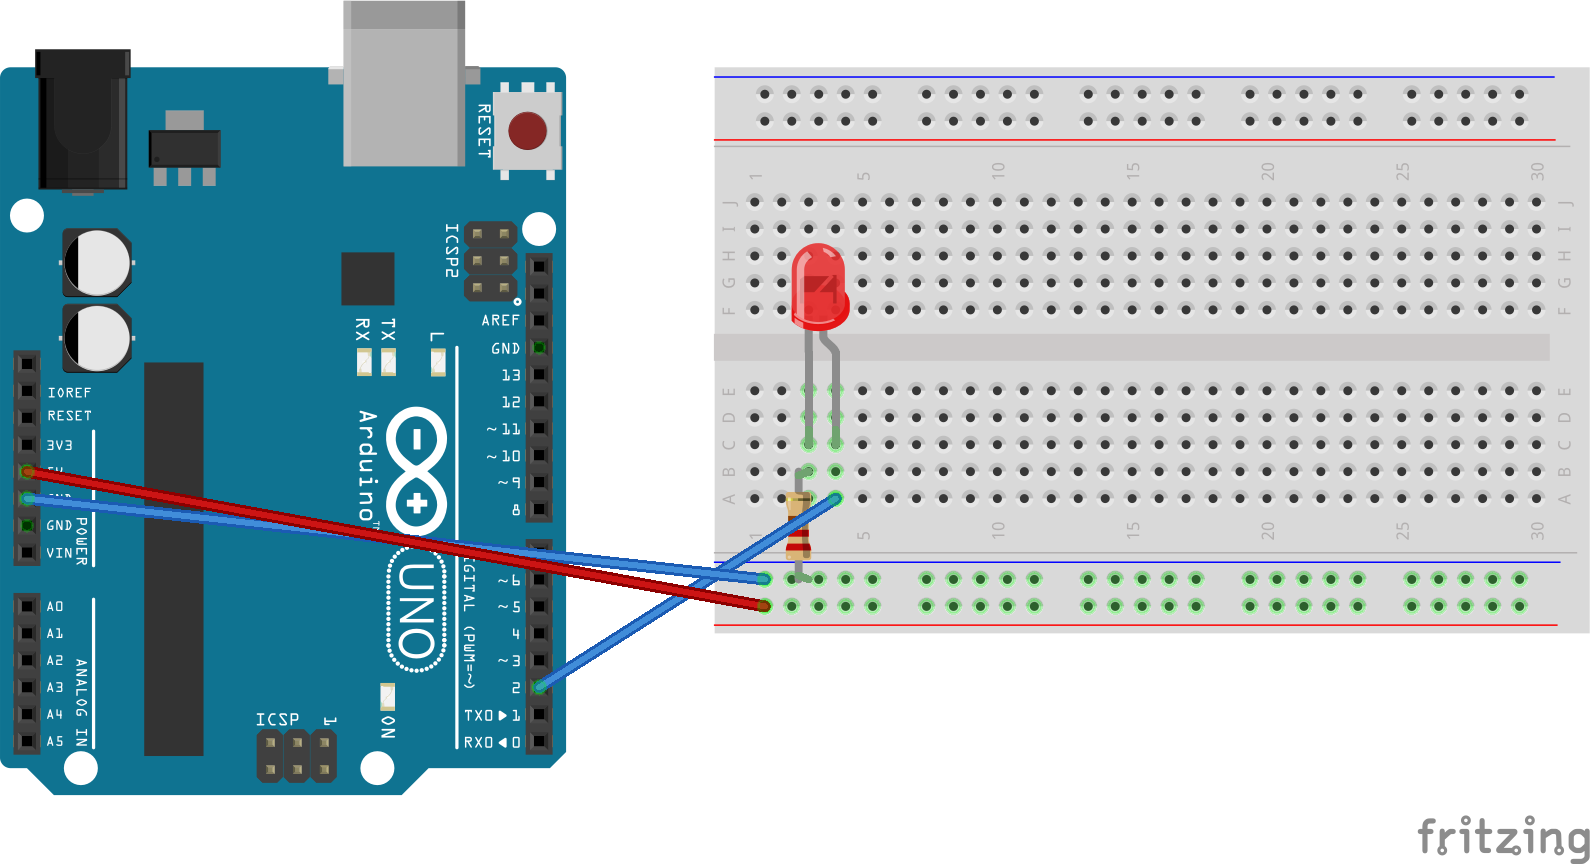
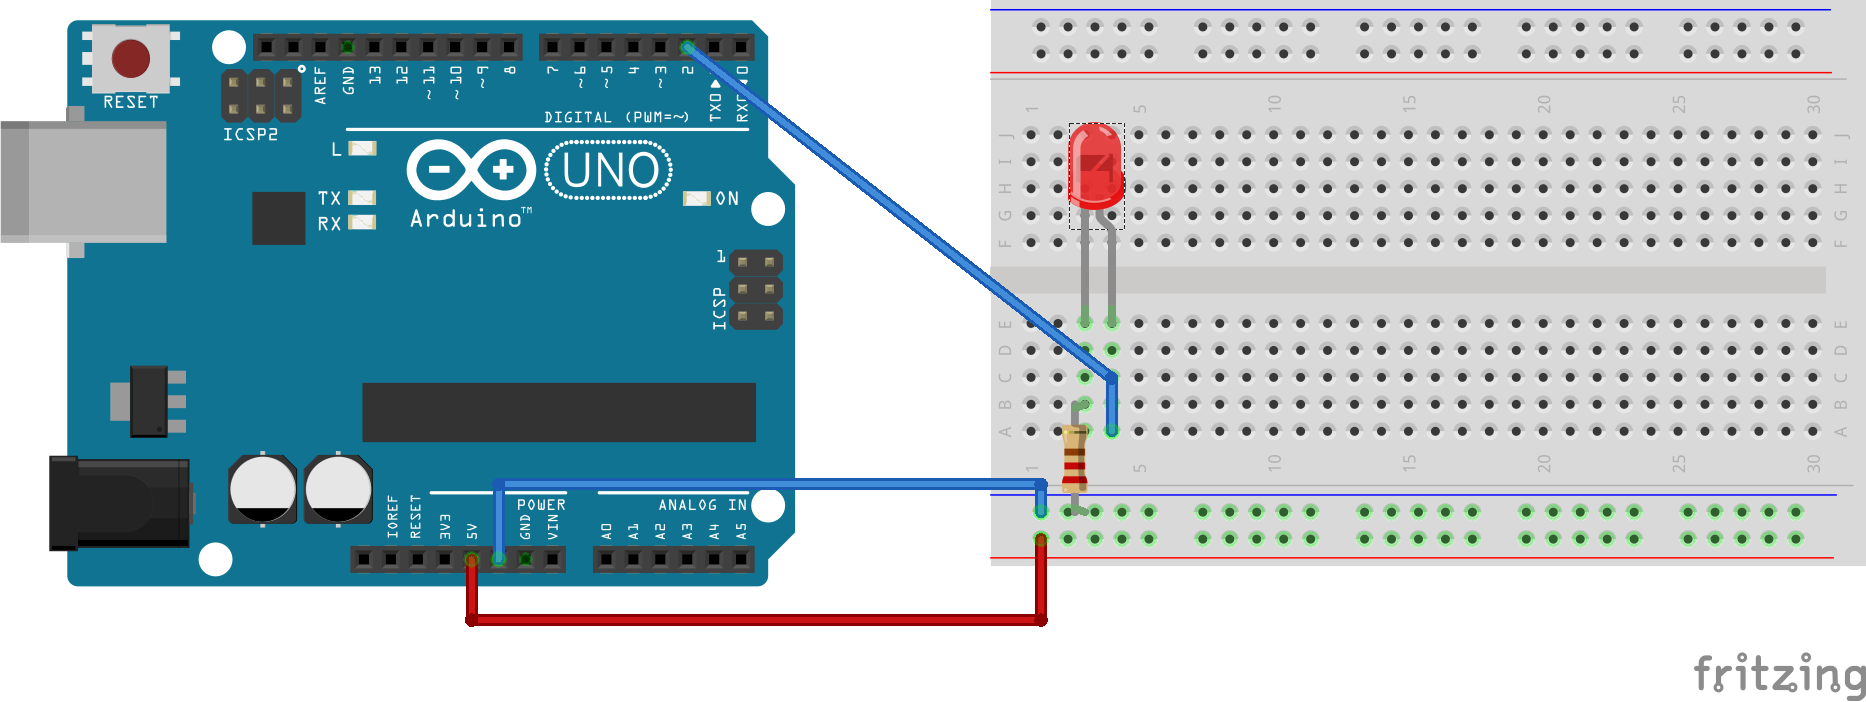
vissa smårättningar

diff --git a/README.md b/README.md
@@ -7,7 +7,8 @@ som bestämmer vad den ska göra om den ser ett hinder.
 
 ## komponentlista
 * Arduino Uno R3
-* USB B-A kabel
+* USB B-A-kabel
+  * (vissa arduinos har USB mini, då är det en USB mini-A-kabel, inte alla kablar har databanor utan är bara laddkablar, så var uppmärksam på det om du inte kan prata med din arduino)
 * Kopplingsplatta (breadboard)
 * Kopplingskablar, 20 ha-ha, 10 ha-ho
 * 3 lysdioder (röd, grön, gul)
@@ -16,7 +17,7 @@ som bestämmer vad den ska göra om den ser ett hinder.
 * tryckknapp
 * ultraljudsavståndsmätare
 * USB powerbank
-* motstånd 220 ohm, 2
+* motstånd 220 ohm, 2st (röd röd brun)
 * roboten:
   * två likströmsmotorer med växellåda
   * två hjul
@@ -27,11 +28,15 @@ som bestämmer vad den ska göra om den ser ett hinder.
 ## annan utrustning som behövs
 
 * elektronikmejslar
+* USB-C-A-adapter om din dator inte har USB-A
 
 ## utvecklingsmiljön
 
 I första hand använder vi den webbaserade editorn på https://create.arduino.cc. Du behöver skapa ett konto där, samt installera ett
-hjälpprogram som låter webbrowsern prata med arduino-datorn.
+hjälpprogram som låter webbrowsern prata med arduino-datorn. 
+
+För de som kör MacOS Ventura så installerar man hjälpprogrammet härifrån: https://github.com/arduino/arduino-create-agent/releases/tag/1.2.7-ventura
+
 
 ## vad är det här?
 
@@ -43,19 +48,20 @@ Det första vi testar är om vi kan blinka en lysdiod med hjälp av datorn.
 
 ![Krets med arduino, breadboard och lysdiod][diodknapp]
 
-[diod]: kretsar/diod-knapp.png "Krets med arduino, breadboard och lysdiod"
+[diod]: kretsar/blinka-diod_bb.png "Krets med arduino, breadboard och lysdiod"
 
 Ett arduino-program består av två delar: En del som sätter i ordning saker
 när datorn startas; ```setup()```, och en slinga som körs om och om igen; `loop()`.
 
 För ändra spänningen på en pinne skriver vi till den: `digitalWrite(_pinne_, _värde_)`. För att göra det lite
-enklare för oss att läsa vår egen kod kallar vi pinnen för RED (#define).
+enklare för oss att läsa vår egen kod kallar vi pinnen för RED (#define). Pinnar kan vara input (vi kan läsa från den) eller output (skriva till den). Alla pinnar är normalt input, så för att tala om att vi vill skriva till den så gör vi `pinMode(RED,OUTPUT)` i `setup()`.
+
 
 ```ino
 #define RED 2
 
 void setup() {
-
+  pinMode(RED,OUTPUT);
 }
 
 void loop() {
@@ -127,7 +133,7 @@ att för att jämför motståndet hos fotoresistorn med en känd resistans.
 så använder vi `analogRead`. Vi måste också använda en analog pinne.
 
 I den fotoresistor-modul som de flesta har fått så finns både själva fotoresistorn och motståndet i. Om vi kopplar in den enligt
-nedan så är det samma krets, fast vi har krymt ihop två komponenter på en modul.
+nedan så är det samma krets, fast vi har krymt ihop två komponenter på en modul. (På den skissen finns inte lysdioden med, men den kopplas på samma sätt som ovan)
 
 ![Krets med arduino, breadboard, lysdiod och fotoresistormodul][fotoresistormodul]
 
@@ -138,7 +144,7 @@ vilka värden som vi läser ut från fotoresistorn. För att se konsolen, välj 
 
 
 ```ino
-#define RED 5
+#define RED 2
 #define PHOTO 0
 int light = 0;
 void setup() {
@@ -150,15 +156,17 @@ void  loop(){
         light = analogRead(PHOTO); // high values for bright environment
         Serial.println(light, DEC);
 
-        if(light>250){
-          digitalWrite(YELLOW,HIGH);
+        if(light>500){
+          digitalWrite(RED,HIGH);
         } else {
-          digitalWrite(YELLOW,LOW);
+          digitalWrite(RED,LOW);
         }
 }
 ```
 
 ## spela en stege när vi trycker på knappen
+
+_Överkurs, hoppa över om du känner att du har lite ont med tid.__
 
 ![Krets med arduino, breadboard, knapp och buzzer][buzzer]
 
